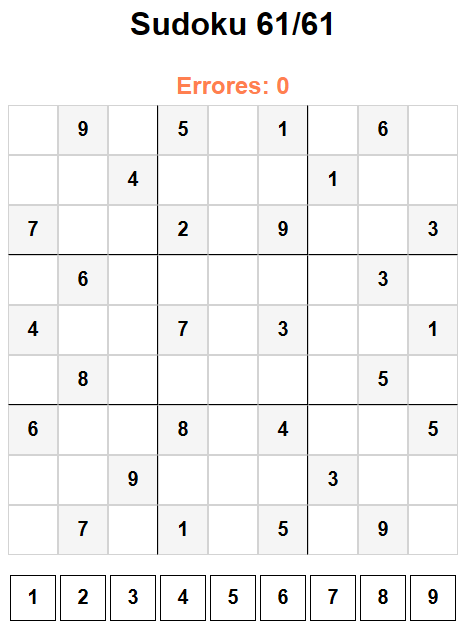
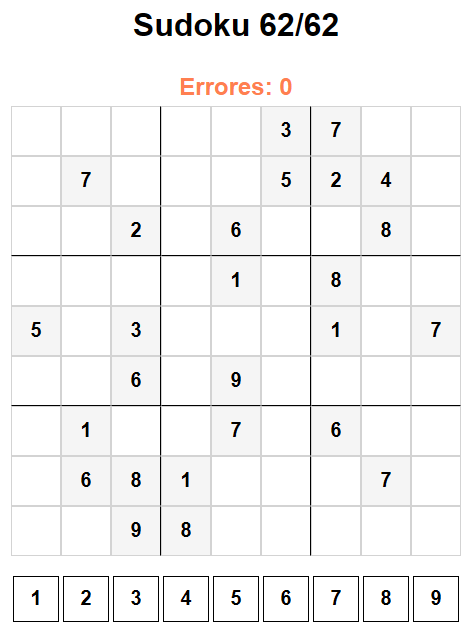
Feat: sudoku-javascript. 20260301
- 20260301

#20260301

diff --git a/board.js b/board.js
@@ -121,6 +121,8 @@ const board = [
     '--4---7--', '-9-----4-', '---6-2---', '6-1-9-2-8'],
   ['-9-5-1-6-', '--4---1--', '7--2-9--3', '-6-----3-', '4--7-3--1',
     '-8-----5-', '6--8-4--5', '--9---3--', '-7-1-5-9-'],
+  ['-----37--', '-7---524-', '--2-6--8-', '----1-8--', '5-3---1-7',
+    '--6-9----', '-1--7-6--', '-681---7-', '--98-----'],
 ];
 
 export default function getBoard (WHICH) {

diff --git a/sudoku.js b/sudoku.js
@@ -10,7 +10,7 @@ let posExample = '';
 
 let errors = 0;
 
-const WHICH = 60;
+const WHICH = 61;
 let currentBoardIndex = WHICH; // El índice del tablero que se va a resolver
 
 let board = [];
